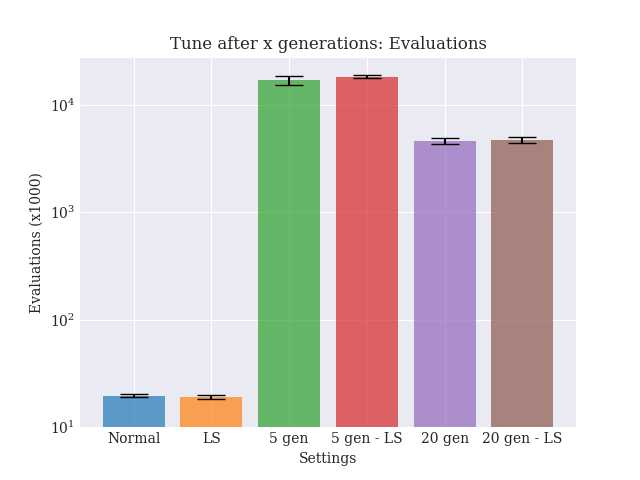
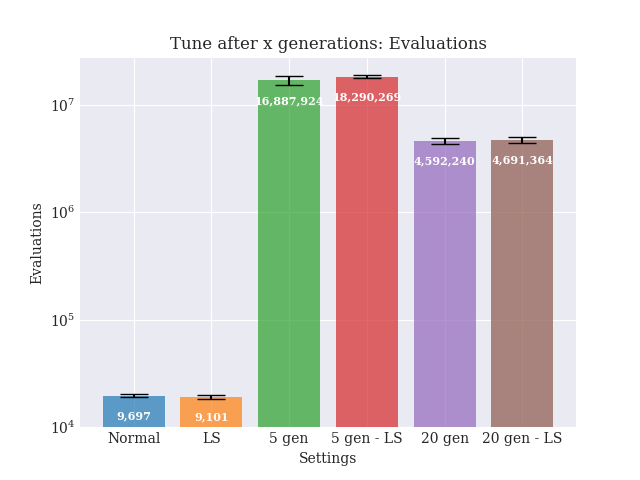
Bar plot evaluations (rev. 2)

diff --git a/plots/plot_some_gen.py b/plots/plot_some_gen.py
@@ -181,7 +181,7 @@ def bar_evaluations():
     palette = plt.get_cmap('tab10')
     plt.figure()
     plt.xlabel("Settings")
-    plt.ylabel("Evaluations (x1000)")
+    plt.ylabel("Evaluations")
     plt.yscale("log")
     plt.title("Tune after x generations: Evaluations")
     labels = []
@@ -192,9 +192,14 @@ def bar_evaluations():
         labels.append(label)
         evals = extract_evaluation(file)
         m_eval, std_eval = avg_over_runs(evals)
-        means.append(m_eval / 1000)
-        stds.append(std_eval / 1000)
-    plt.bar(labels, means, yerr=stds, capsize=10, bottom=10, color=[palette(i) for i in range(6)], alpha=0.7)
+        means.append(m_eval)
+        stds.append(std_eval)
+    bars = plt.bar(labels, means, yerr=stds, capsize=10, bottom=10 ** 4, color=[palette(i) for i in range(6)],
+                   alpha=0.7)
+    for rect in bars:
+        height = rect.get_height()
+        plt.text(rect.get_x() + rect.get_width() / 2.0, (height + 10**4) * 0.65, f'{int(height):,}', ha='center', va='center', color='white', weight='bold', fontsize=8)
+
     plt.savefig("../images/tune_evaluations")
     plt.show()
 
